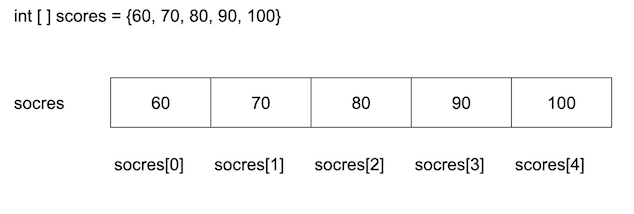
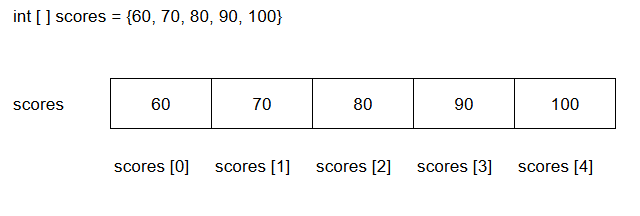
fix

diff --git a/chapter04/Sample03.java b/chapter04/Sample03.java
@@ -2,6 +2,28 @@ package chapter04;
 
 public class Sample03 {
     public static void main(String[] args) {
+
+        double[] weights = new double[5];
+        System.out.println("double の初期値は 0.0 になる");
+        System.out.println("weights[0] = " + weights[0]); // 0.0
+        System.out.println("weights[1] = " + weights[1]); // 0
+        System.out.println("weights[2] = " + weights[2]); // 0.0
+
+
+        boolean[] answers = new boolean[3];
+        System.out.println("boolean の初期値は false になる");
+        System.out.println("answers[0] = " + answers[0]); // false
+        System.out.println("answers[1] = " + answers[1]); // false
+        System.out.println("answers[2] = " + answers[2]); // false
+
+
+        String names[] = new String[3];
+        System.out.println("String の初期値は null になる");
+        System.out.println("names[0] = " + names[0]); // null
+        System.out.println("names[1] = " + names[1]); // null
+        System.out.println("names[2] = " + names[2]); // null
+
+
         // 特殊な値null
         // nullは「0」でも「空文字」でもなく、「何もない」ことを表す特別な値
         int a = 0;
@@ -15,26 +37,10 @@ public class Sample03 {
         String t = null;
         System.out.println("t = " + t); // null
 
-        String u[] = new String[3];
-        System.out.println("String の初期値は null になる");
-        System.out.println("u[0] = " + u[0]); // null
-        System.out.println("u[1] = " + u[1]); // null
-        System.out.println("u[2] = " + u[2]); // null
-
-        double[] d = new double[3];
-        System.out.println("double の初期値は 0.0 になる");
-        System.out.println("d[0] = " + d[0]); // 0.0
-        System.out.println("d[1] = " + d[1]); // 0
-        System.out.println("d[2] = " + d[2]); // 0.0
-
-        boolean[] bools = new boolean[3];
-        System.out.println("boolean の初期値は false になる");
-        System.out.println("bools[0] = " + bools[0]); // false
-        System.out.println("bools[1] = " + bools[1]); // false
-        System.out.println("bools[2] = " + bools[2]); // false
 
         char[] chars = new char[3];
         System.out.println("char の初期値は '\\u0000' になる");
+        // \\u は Unicode文字を表すためのエスケープシーケンス
         // ヌル文字は「値が「0」の具体的な1文字（1バイト）のデータ」、nullは「なにもない」。名前は似ているが全く別物。
         System.out.println("chars[0] = " + chars[0]); // '\u0000'
         System.out.println("chars[1] = " + chars[1]); // '\u0000'

diff --git a/chapter04/Sample08.java b/chapter04/Sample08.java
@@ -2,36 +2,10 @@ package chapter04;
 
 public class Sample08 {
     public static void main(String[] args) {
-        // int[] arrayA = { 1, 2, 3 };
-        // int[] arrayB;
-        // arrayB = arrayA;
-        // arrayB[0] = 100;
-        // System.out.println(arrayA[0]);
-
-        int[] arrayA = new int[3];
-        System.out.println("arrayA = " + arrayA);
-        //System.out.println(arrayA.toString()); 内部的にはtoString()が呼ばれている。
+        int[] arrayA = { 1, 2, 3 };
+        int[] arrayB;
+        arrayB = arrayA;
+        arrayB[0] = 100;
+        System.out.println(arrayA[0]);
     }
 }
-
-
-
-/* arrayB を変更したのに、なぜ arrayA まで変わるの？
-配列の変数には配列そのものではなく、配列の場所（アドレス）が入っている
-配列の中身をコピーしているのではなく、 配列の場所 をコピーしている。
-
-(int は「値」が入る。)
-
-
-コンピュータのメモリには
-
-1000番地
-1001番地
-1002番地
-...
-
-のように住所(アドレス）があります。
-
-new をしたときに初めて配列の実体が作られ、その参照（アドレス）が変数 a に入ります。
-（ただし、javaでは直接アドレスの値をみることはできない）
-*/

diff --git a/chapter04/Sample06.java b/chapter04/Sample06.java
@@ -4,7 +4,6 @@ public class Sample06 {
     public static void main(String[] args) {
         int[] attendance = {0, 1, 2, 1, 0};
 
-        // 実システムでは、数字でデータを管理することが多い
         // 0 → 欠席, 1 → 出席, 2 → 遅刻 で管理して、データに対応する出席の状態を表示する場合
         for (int i = 0; i < attendance.length; i++) {
             switch (attendance[i]) {
@@ -19,17 +18,6 @@ public class Sample06 {
                 }
             }
         }
-        // 「0→欠席」「1→出席」「2→遅刻」の対応を毎回 switch に書かなければなりません。
-
-
-        /* 番号と名前の対応表を配列で用意しておけば、switch文を書かなくても、番号から名前を取り出せる
-
-            添字   値
-            ----------------
-            0      欠席
-            1      出席
-            2      遅刻
-        */
 
         System.out.println("------配列を使った書き方------");
         String[] status = {"欠席", "出席", "遅刻"};

diff --git a/chapter04/問題.md b/chapter04/問題.md
@@ -63,3 +63,7 @@ System.out.println(sum);
 ```
 
 
+## 問題7
+int型の配列 values を宣言し、10, 20, 30, 40 を格納した状態で初期化してください。
+配列valuesのすべての要素をfor文を使って表示してください。
+